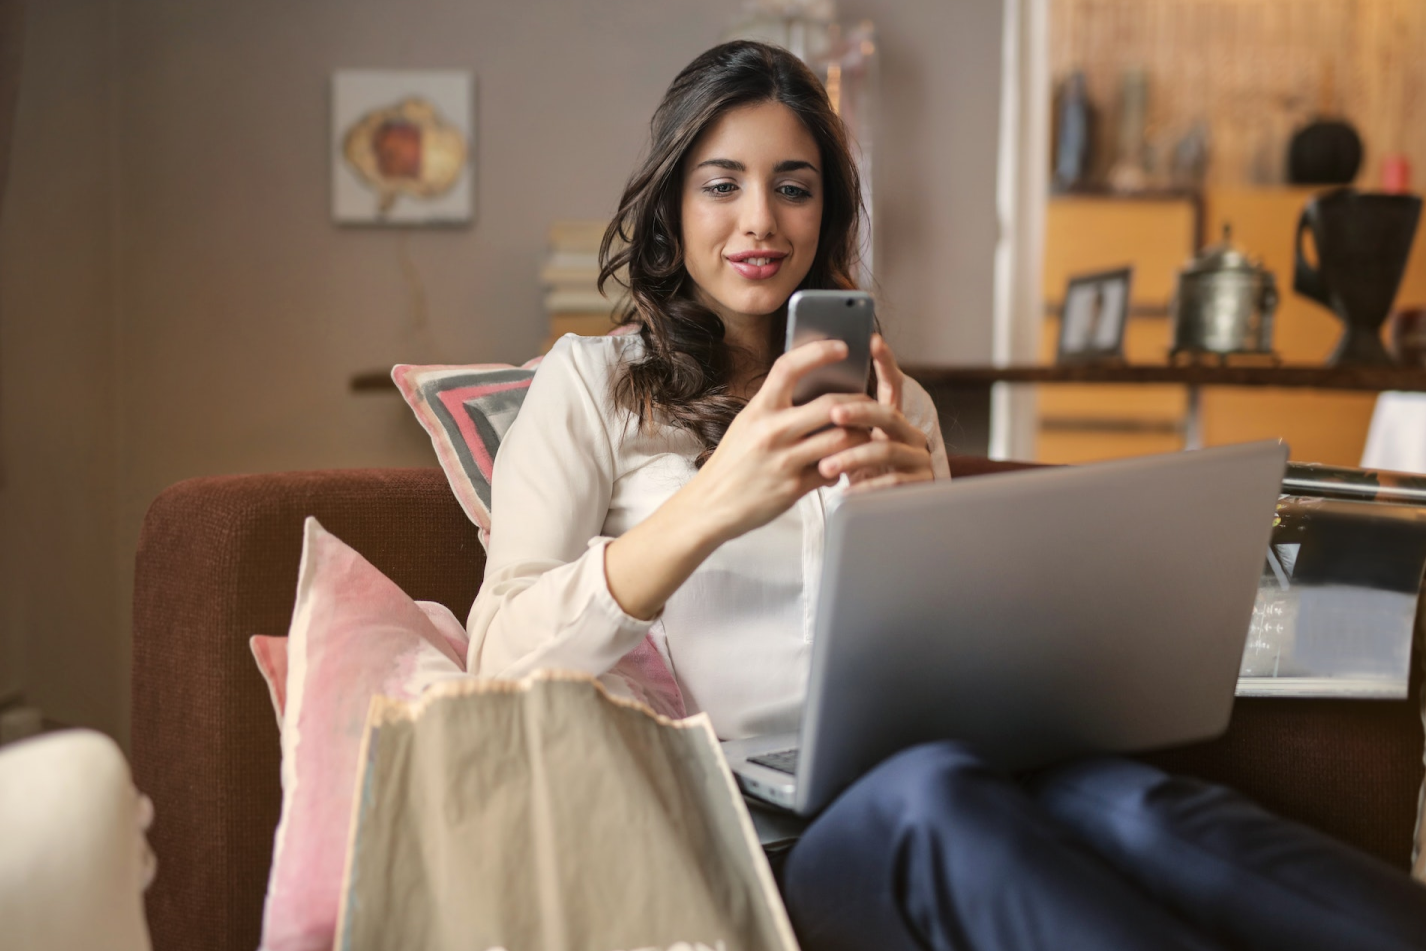
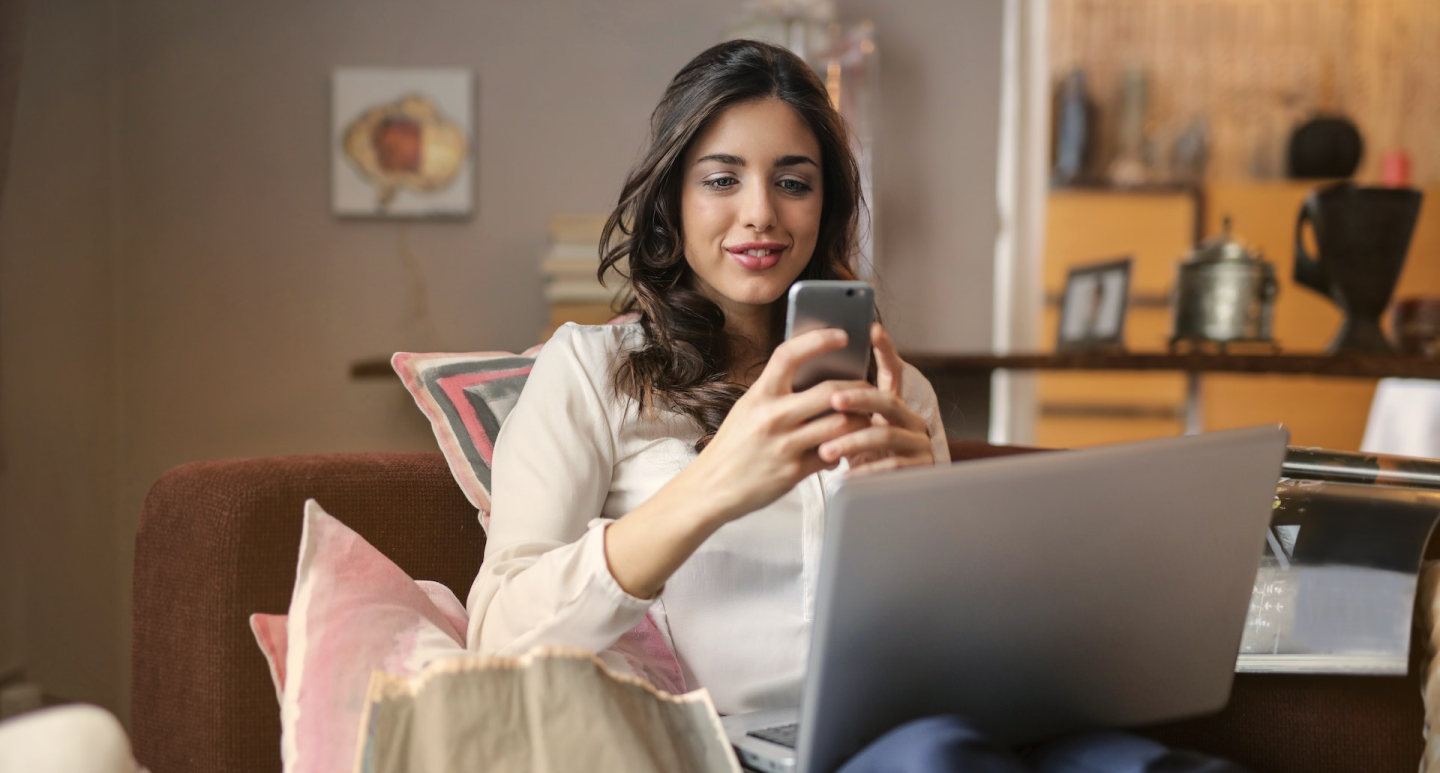
Hicimos cambios en la ruta del login, cambiamos el background del landig, cambiamos algunas cosas del navbar, agregamos variables de entorno

diff --git a/src/components/Navbar/Navbar.jsx b/src/components/Navbar/Navbar.jsx
@@ -14,7 +14,7 @@ const Navbar = () => {
   const [isLoading, setIsLoading] = useState(true);
   const pathname = usePathname();
   const [user_id, setUser_id] = useState();
-console.log(user_id);
+  
 
   useEffect(() => {
     const fetchData = async () => {
@@ -46,10 +46,10 @@ console.log(user_id);
   const navbarClass =
     isLoginPage || isLoginPass || isRegister ? "bg-color-primary" : "bg-color-darker";
   const logoSrc = isLoginPage || isLoginPass || isRegister ? "/logo2.png" : "/logo1.png";
-  const loginButtom = isLoginPage || isRegister || isLoginPass
+  const loginButtom = isLoginPage  || isLoginPass
     ? "hidden"
     : "border border-color-primary p-2 rounded-md text-color-primary font-bold";
-  const registerStyle = isRegister ? "hidden" : "";
+
 
   return (
     <div className={`${navbarClass} flex justify-between px-4 py-3 items-center  `}>
@@ -92,7 +92,7 @@ console.log(user_id);
                   height={43}
                   priority
                 />
-                <h1 className={`${registerStyle} hidden md:block`}>
+                <h1 className={` hidden md:block`}>
                   Hola, {userData?.firstname ? userData.firstname : ""} bienvenido
                 </h1>
               </Link>
@@ -105,7 +105,7 @@ console.log(user_id);
             </button>
           </>
         ) : (
-          <div className={`${registerStyle} flex gap-2`}>
+          <div className={` flex gap-2`}>
             <Link
               href={"/login"}
               className={`${loginButtom}`}
@@ -114,7 +114,7 @@ console.log(user_id);
             </Link>
             <Link
               href={"/register"}
-              className={`${loginButtom}`}
+              className={`bg-color-primary rounded-md text-color-darker font-bold p-2`}
             >
               Crear Cuenta
             </Link>

diff --git a/src/components/LoginForm/LoginForm.jsx b/src/components/LoginForm/LoginForm.jsx
@@ -24,22 +24,26 @@ const LoginForm = () => {
     }
 
     return (
-        <FormProvider {...methods}>
-            <form className="flex flex-col gap-4 " onSubmit={handleSubmit(onSubmit)}>
-                <input  
-                    {...methods.register("email")}
-                    placeholder="Correo electrónico"
-                    type="email" autoComplete="off"
-                    className="rounded-md p-2" />
-                {errors.email && (
-                    <p className="text-red-600 italic">{errors.email.message}</p>
-                )}
-                <button className="w-full p-2 rounded-md bg-color-primary" type="submit">Continuar</button>
-                <Link href={"/register"} className="w-full text-center p-2 rounded-md bg-color-dark" >Crear cuenta</Link>
-                <div className="border border-color-primary text-color-primary rounded-md p-2">Continua con Google</div>
-                {serverError && <div className="text-red-600">{serverError}</div>}
-            </form>
-        </FormProvider>
+    <FormProvider {...methods}>
+  <form className="flex flex-col gap-4" onSubmit={handleSubmit(onSubmit)}>
+    <input
+      {...methods.register("email")}
+      placeholder="Correo electrónico"
+      type="email"
+      autoComplete="off"
+      className={`rounded-md p-2 ${errors.email ? "border border-red-600" : "border border-gray-300"}`}
+    />
+    {errors.email && (
+      <p className="text-red-600 italic">{errors.email.message}</p>
+    )}
+    <button className="w-full p-2 rounded-md bg-color-primary font-semibold" type="submit">
+      Continuar
+    </button>
+    <Link href="/register" className="w-full text-center p-2 rounded-md bg-[#CECECE] font-semibold">
+      Crear cuenta
+    </Link>
+  </form>
+</FormProvider>
     );
 }
 

diff --git a/src/services/getUserById.js b/src/services/getUserById.js
@@ -1,7 +1,7 @@
 import axios from "axios";
 
 export const getUserById = async (user_id, token) => {
-  const BASE_URL = "https://digitalmoney.digitalhouse.com";
+  const BASE_URL = process.env.NEXT_PUBLIC_API_URL
 
 
   if (!token) {
@@ -9,7 +9,7 @@ export const getUserById = async (user_id, token) => {
     return;
   }
   try {
-    const response = await axios.get(`${BASE_URL}/api/users/${user_id}`, {
+    const response = await axios.get(`${BASE_URL}/users/${user_id}`, {
       headers: {
         Authorization: token,
         "Content-Type": "application/json",

diff --git a/src/app/page.js b/src/app/page.js
@@ -2,7 +2,7 @@ import Image from "next/image";
 
 export default function Home() {
   return (
-    <main className="background_hero relative">
+    <main className="background_hero relative ">
       <div className="bg-color-primary absolute bottom-0 w-full h-[25%] rounded-t-2xl"></div>
       <section className="w-[60%] h-[50%] pt-8 pl-5 md:pl-6 flex flex-col gap-2 ">
         <h1 className="text-white font-semibold md:text-[48px] md:leading-10 text-[27px] leading-6 md:font-normal">

diff --git a/src/components/LoginPassForm/LoginPassForm.jsx b/src/components/LoginPassForm/LoginPassForm.jsx
@@ -32,7 +32,7 @@ const LoginPassForm = () => {
       window.localStorage.setItem("user_id", JSON.stringify(userData.user_id));
       window.localStorage.setItem("account_id", JSON.stringify(userData.id));
 
-      router.push("/");
+      router.push("/dashboard");
     } catch (error) {
       console.error(error.message);
       setServerError("Ha ocurrido un error. Intente más tarde.");

diff --git a/src/schemas/login.scheme.js b/src/schemas/login.scheme.js
@@ -1,7 +1,7 @@
 import * as yup from "yup";
 
 const LoginScheme = yup.object({
-    email: yup.string().email('El correo electrónico debe tener un formato válido').required('El correo electrónico es obligatorio'),
+    email: yup.string().email('Formato invalido').required('El correo electrónico es obligatorio'),
     //  password: yup.string().required()
 }).required();
 

diff --git a/src/app/register/registerSuccess/page.jsx b/src/app/register/registerSuccess/page.jsx
@@ -7,7 +7,6 @@ import Footer from '@/components/footer/Footer'
 const RegisterSuccess = () => {
   return (
     <div className="h-screen bg-color-darker flex flex-col justify-between">
-     
       <div className="flex flex-col items-center justify-center flex-grow">
         <Image 
           src="/RegistroExitoso.png" 

diff --git a/src/app/layout.js b/src/app/layout.js
@@ -15,7 +15,7 @@ export default function RootLayout({ children }) {
   return (
     <html  lang="en">
 
-    <body className={`${open_sans.className} h-screen flex flex-col`}>
+    <body className={`${open_sans.className}  flex flex-col`}>
       <AppProvider>
       <Navbar />
       <main className="">{children}</main>

diff --git a/src/app/globals.css b/src/app/globals.css
@@ -16,6 +16,7 @@ html, body {
   background-position: center;
   width: 100%;
   height: 100vh;
+ 
 }
 
 @media (min-width: 594px) {
